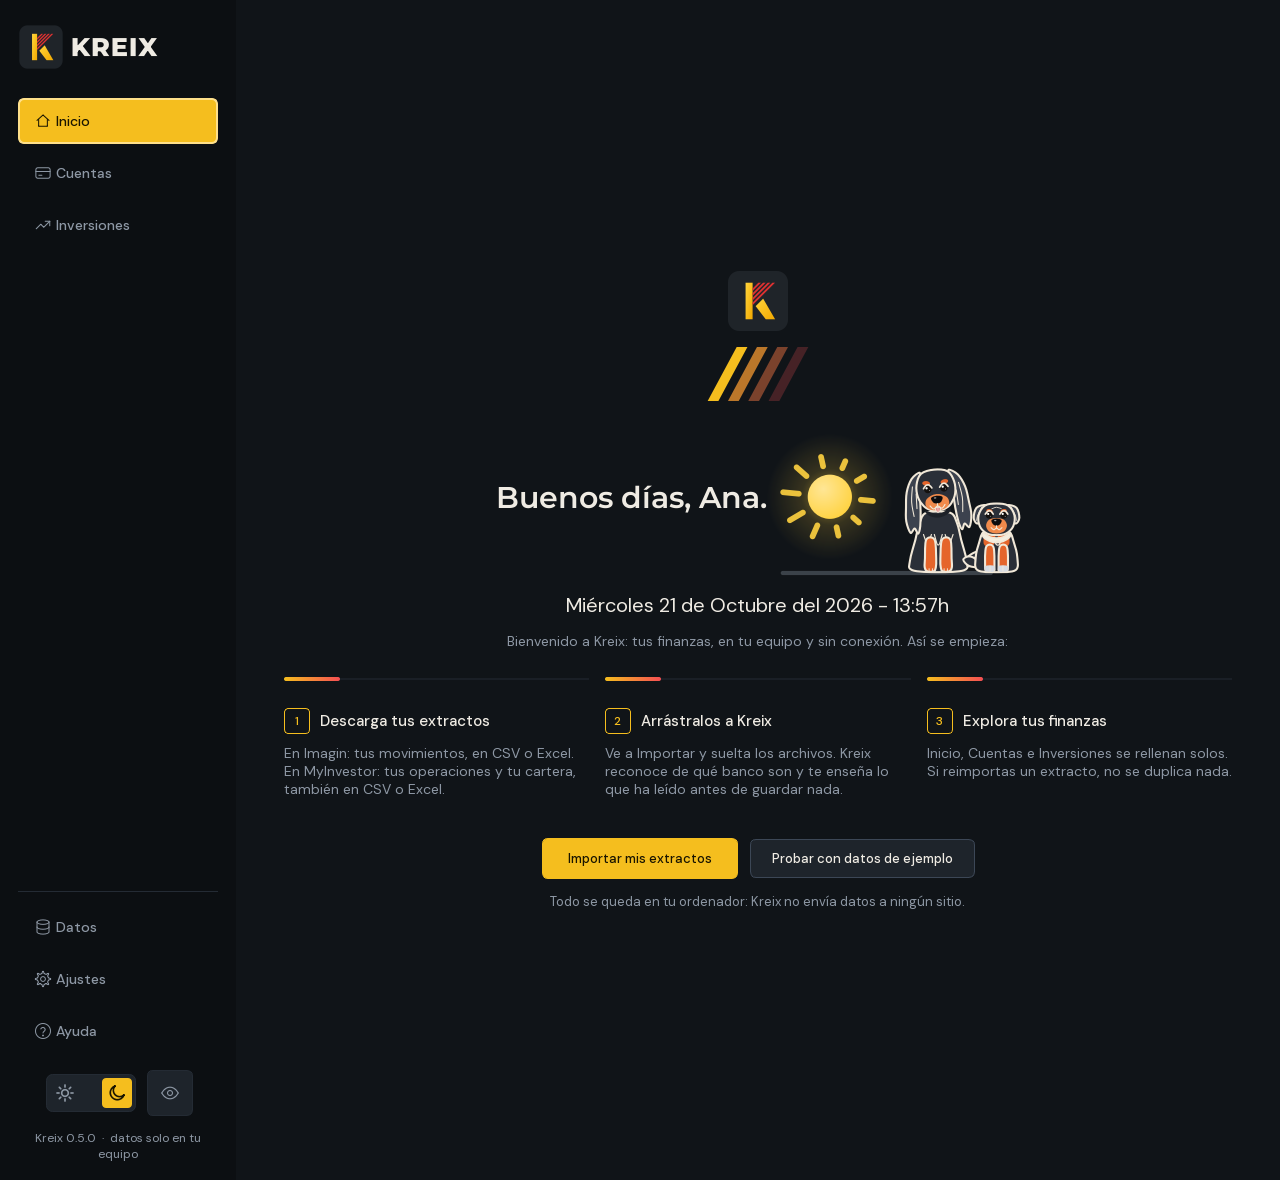
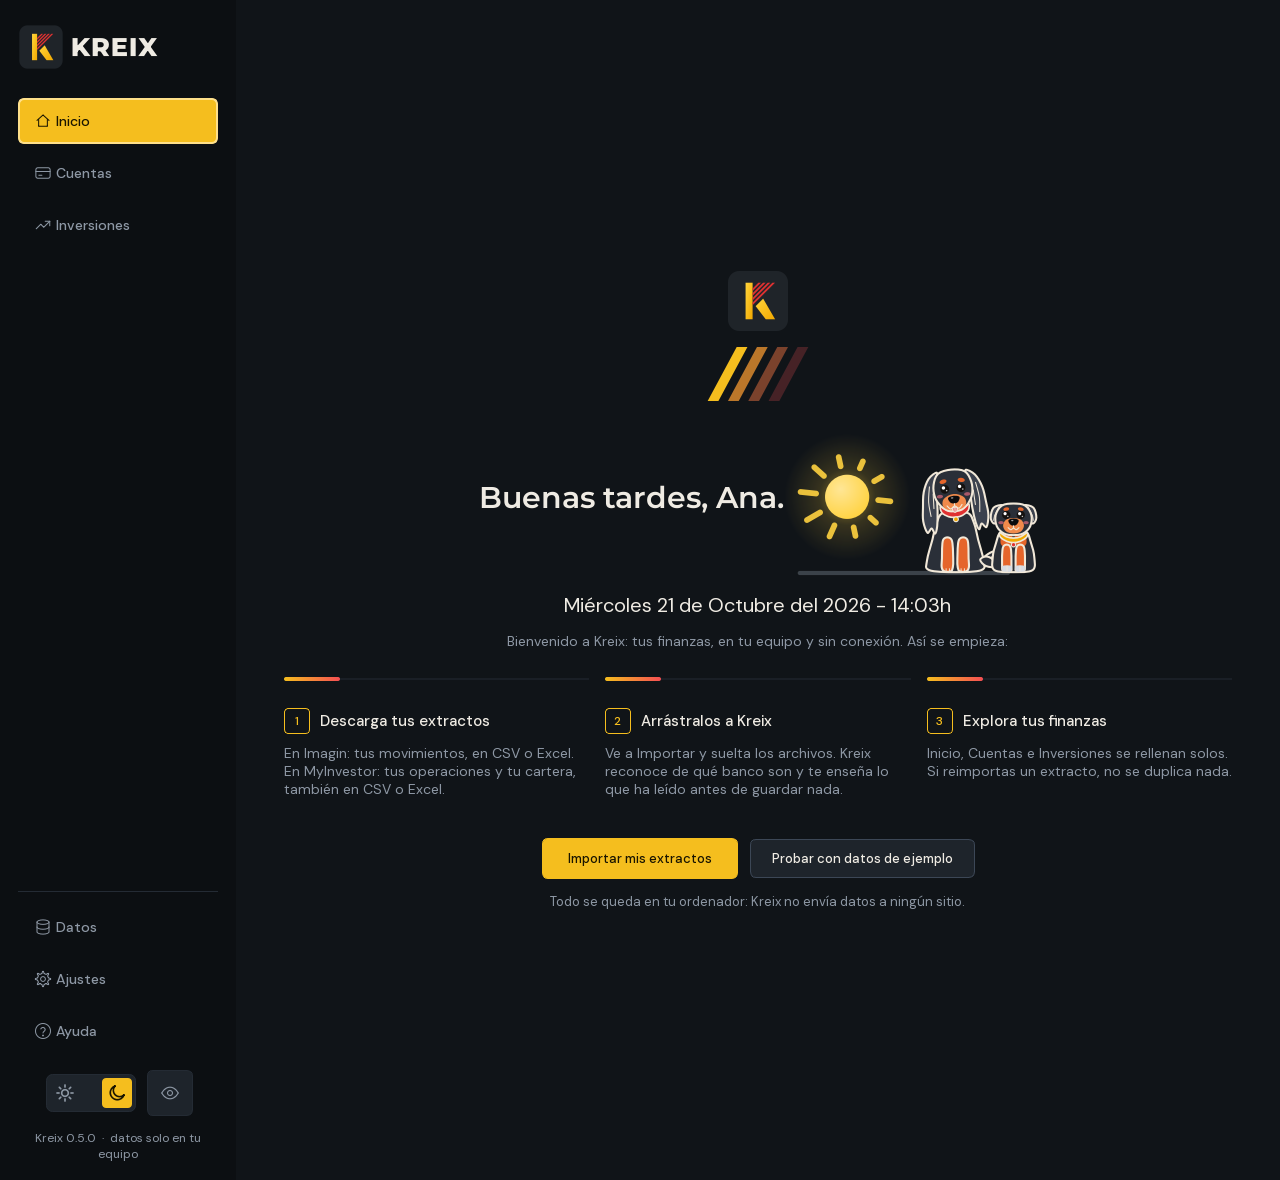
Perros más tiernos y con collares de la marca
- Blitzen pierde los tres mechones del pecho (las "VVV" entre las patas) y la sombra de la barbilla.
- Collares con los colores del logotipo de cada tema: Blitzen en rojo con chapita amarilla, Black en amarillo con chapita roja (también durmiendo).
- Caras más tiernas: ojos más grandes con brillos mayores y sin el párpado marcado, cejas que suben hacia dentro, rubor en las mejillas y sin la arruga de la frente de Black.

Changed region(s): [[0.375, 0.3661, 0.8125, 0.5186]]

diff --git a/ui/widgets/dogs.py b/ui/widgets/dogs.py
@@ -6,7 +6,7 @@ con la cara y las proporciones de cada perro:
 * Blitzen, cavalier king charles negro y fuego: cabeza redondeada, orejas largas y onduladas, ojos grandes, cejas de fuego,
   mejillas de fuego y la sonrisa con la puntita de la lengua.
 * Black, un perrito negro y fuego esbelto: orejas cortas plegadas hacia delante, ojos grandes con las cejas inclinadas, hocico
-  de fuego y el collar crema con su anilla.
+  de fuego y el collar amarillo del logotipo. Blitzen lleva el rojo.
 
 Cada cabeza se dibuja con una sola funcion (origen en el centro de la cabeza) y se usa igual de pie y durmiendo: las orejas son
 las mismas, solo se tumban hacia los lados cuando duermen. Como los perros son negros, el contorno toma el color del texto del tema
@@ -58,14 +58,19 @@ class Look:
     paw: QColor         # la punta clara de las patas de Black
     tongue: QColor
     grey: QColor        # la perilla gris de Black
+    collar_red: QColor      # collar de Blitzen: el rojo del logotipo
+    collar_yellow: QColor   # collar de Black: el amarillo del logotipo
+    blush: QColor           # rubor de las mejillas
 
 
 def look(dark: bool) -> Look:
     if dark:
         return Look(QColor("#F1E8D8"), QColor("#2A2F38"), QColor("#3C424E"), QColor("#1D2128"), QColor("#E5652B"), QColor("#F08A4B"),
-                    QColor("#F4EEDF"), QColor("#14110F"), QColor("#0B0B0D"), QColor("#D8DCE3"), QColor("#E98A8A"), QColor("#9AA0AB"))
+                    QColor("#F4EEDF"), QColor("#14110F"), QColor("#0B0B0D"), QColor("#D8DCE3"), QColor("#E98A8A"), QColor("#9AA0AB"),
+                    QColor("#E03131"), QColor("#F2A900"), QColor(255, 118, 138, 150))
     return Look(QColor("#17191D"), QColor("#2A2E36"), QColor("#474D59"), QColor("#1E2127"), QColor("#D4571F"), QColor("#E8793A"),
-                QColor("#F8F2E4"), QColor("#14110F"), QColor("#0B0B0D"), QColor("#E4E7EC"), QColor("#E98A8A"), QColor("#9097A3"))
+                QColor("#F8F2E4"), QColor("#14110F"), QColor("#0B0B0D"), QColor("#E4E7EC"), QColor("#E98A8A"), QColor("#9097A3"),
+                QColor("#C92A2A"), QColor("#F2B400"), QColor(240, 120, 130, 125))
 
 
 LINE_W = 1.0
@@ -112,16 +117,14 @@ class Pen:
         self.p.restore()
 
     def eye(self, x: float, y: float, r: float, closed: float = 0.0) -> None:
-        """Un ojo redondo con parpado superior y dos brillos. `closed` de 0 (abierto) a 1 (cerrado: un arco, como en la referencia)."""
+        """Un ojo redondo y brillante con dos destellos. `closed` de 0 (abierto) a 1 (cerrado: un arco, como en la referencia)."""
         if closed >= 0.85:
             self.line([(x - r * 1.05, y + 0.1), (x, y + r * 0.7), (x + r * 1.05, y + 0.1)], width=self.width * 0.85)
             return
         ry = r * (1 - closed * 0.85)
         self.ellipse(x, y, r, ry, self.lk.eye)
-        self.ellipse(x - r * 0.3, y - ry * 0.35, r * 0.3, r * 0.3, QColor("#FFFFFF"))
-        self.ellipse(x + r * 0.4, y + ry * 0.33, r * 0.13, r * 0.13, QColor(255, 255, 255, 170))
-        self.line([(x - r * 1.12, y - ry * 0.3), (x - r * 0.4, y - ry * 1.12), (x + r * 0.5, y - ry * 1.12), (x + r * 1.12, y - ry * 0.3)],
-                  width=self.width * 0.8)
+        self.ellipse(x - r * 0.28, y - ry * 0.32, r * 0.38, r * 0.38 * (ry / r), QColor("#FFFFFF"))
+        self.ellipse(x + r * 0.38, y + ry * 0.35, r * 0.17, r * 0.17 * (ry / r), QColor(255, 255, 255, 190))
 
 
 # ======================================================================================= cabezas (origen: el centro de la cabeza)
@@ -134,6 +137,10 @@ _BLITZEN_EAR_LINES = [[(11.2, -2.6), (12.4, 4.6), (12.0, 11.6)], [(9.8, 1.0), (1
 def blitzen_head(pen: Pen, lk: Look, blink: float = 0.0, smile: float = 1.0, ear_swing: float = 0.0, ear_lay: float = 0.0) -> None:
     """Cabeza redondeada con las orejas largas. `ear_lay` (grados) tumba las orejas hacia los lados, como al dormir."""
     p = pen.p
+    # collar rojo, debajo de la cabeza y de las orejas: asoma bajo la barbilla, con su chapita
+    pen.shape([(-6.8, 7.4), (-3.6, 9.8), (0, 10.4), (3.6, 9.8), (6.8, 7.4), (6.4, 10.4), (3.4, 12.6), (0, 13.2), (-3.4, 12.6), (-6.4, 10.4)],
+              lk.collar_red, width=0.8)
+    pen.ellipse(0, 14.2, 1.15, 1.15, lk.collar_yellow, outline=True, width=0.55)
     for sx in (-1, 1):
         p.save()
         p.translate(sx * 7.4, -7.0)                              # las orejas giran desde donde nacen
@@ -149,8 +156,9 @@ def blitzen_head(pen: Pen, lk: Look, blink: float = 0.0, smile: float = 1.0, ear
     pen.shape(sym([(0, 2.0), (2.8, 2.6), (5.2, 4.4), (5.6, 7.2), (3.6, 9.2), (0, 9.8)]), lk.fire_soft, outline=False)
     # cejas de fuego y ojos grandes
     for sx in (-1, 1):
-        pen.ellipse(sx * 4.4, -3.6, 1.85, 1.1, lk.fire, angle=sx * -10)
-        pen.eye(sx * 3.9, -0.6, 1.8, blink)
+        pen.ellipse(sx * 4.4, -4.4, 1.7, 1.0, lk.fire, angle=sx * 12)
+        pen.ellipse(sx * 6.6, 2.6, 1.5, 0.85, lk.blush)
+        pen.eye(sx * 3.9, -0.7, 2.15, blink)
     # nariz, philtrum y boca con la lengua
     pen.shape([(-2.7, 3.6), (0, 2.8), (2.7, 3.6), (2.0, 5.8), (0, 6.6), (-2.0, 5.8)], lk.nose, outline=False)
     pen.ellipse(-0.8, 3.8, 0.6, 0.34, QColor(255, 255, 255, 150))
@@ -173,16 +181,16 @@ def black_head(pen: Pen, lk: Look, blink: float = 0.0, ear_swing: float = 0.0) -
         pen.line([(sx * 7.2, -6.0), (sx * 9.0, -2.2), (sx * 9.6, 0.4)], width=0.4)
         p.restore()
     pen.shape(sym([(0, -7.6), (5.6, -6.6), (8.6, -2.0), (8.0, 3.4), (4.6, 6.8), (0, 7.6)]), lk.coat)
-    pen.line([(-2.2, -5.2), (0, -5.8), (2.2, -5.2)], width=0.4)                  # arruga de la frente
     # hocico de fuego
     pen.shape(sym([(0, -0.6), (3.6, 0.2), (5.0, 3.0), (3.6, 5.8), (0, 6.8)]), lk.fire_soft, outline=False)
     for sx in (-1, 1):
         p.save()
-        p.translate(sx * 3.4, -4.0)
-        p.rotate(sx * -12)
-        pen.ellipse(0, 0, 1.5, 0.95, lk.fire)
+        p.translate(sx * 3.5, -4.9)
+        p.rotate(sx * 12)
+        pen.ellipse(0, 0, 1.4, 0.85, lk.fire)
         p.restore()
-        pen.eye(sx * 3.5, -2.0, 1.7, blink)
+        pen.ellipse(sx * 6.0, 1.6, 1.3, 0.75, lk.blush)
+        pen.eye(sx * 3.5, -2.1, 2.0, blink)
     pen.shape([(-2.4, 0.4), (0, -0.4), (2.4, 0.4), (1.7, 2.4), (0, 3.1), (-1.7, 2.4)], lk.nose, outline=False)
     pen.ellipse(-0.6, 0.6, 0.55, 0.32, QColor(255, 255, 255, 150))
     pen.line([(0, 3.1), (0, 4.2)], width=0.5)
@@ -202,9 +210,6 @@ def blitzen_sitting(p: QPainter, lk: Look, t: float = 0.0, blink: float = 0.0, t
     p.restore()
     # cuerpo sentado: cuello, hombros, costillas y grupa
     pen.shape([(-5.6, -28), (-9.0, -23), (-11.0, -15), (-13.6, -5), (-12.6, -0.4), (0, 0.6), (12.6, -0.4), (13.6, -5), (11.0, -15), (9.0, -23), (5.6, -28)], lk.coat)
-    # el pelo largo del pecho: tres mechones
-    for dx, h in ((-5.2, 4.2), (0.0, 5.0), (5.2, 4.2)):
-        pen.line([(dx - 1.9, -17.5), (dx - 0.7, -17.5 + h * 0.85), (dx, -17.5 + h), (dx + 0.7, -17.5 + h * 0.85), (dx + 1.9, -17.5)], width=0.55)
     # patas delanteras de fuego
     for sx in (-1, 1):
         pen.shape([(sx * 1.8, -15), (sx * 5.8, -15), (sx * 6.4, -6), (sx * 6.5, -1.6), (sx * 5.2, 0.2), (sx * 2.2, 0.2), (sx * 1.2, -1.6), (sx * 1.0, -6)], lk.fire)
@@ -215,7 +220,6 @@ def blitzen_sitting(p: QPainter, lk: Look, t: float = 0.0, blink: float = 0.0, t
     p.translate(0, -28.0)
     p.rotate(tilt)
     p.translate(0, 28.0)
-    pen.shape([(-6.0, -29.5), (0, -27.4), (6.0, -29.5), (4.6, -27.0), (0, -25.6), (-4.6, -27.0)], lk.shade, outline=False)   # sombra bajo la barbilla
     p.translate(0, -39.0)
     blitzen_head(pen, lk, blink=blink, smile=1.0, ear_swing=math.sin(t * 1.3) * 1.8)
     p.restore()
@@ -248,10 +252,10 @@ def black_sitting(p: QPainter, lk: Look, t: float = 0.0, blink: float = 0.0, til
     p.translate(0, -24.8)
     black_head(pen, lk, blink=blink, ear_swing=math.sin(t * 1.1 + 0.7) * 2.2 + max(0.0, math.sin(t * 0.7 + 2.0)) ** 8 * 6.0)
     p.restore()
-    # collar claro con su anilla
+    # collar amarillo con su chapita
     pen.shape([(-6.6, -18.4), (-3.4, -16.4), (0, -15.8), (3.4, -16.4), (6.6, -18.4), (6.3, -16.2), (3.2, -14.2), (0, -13.6), (-3.2, -14.2), (-6.3, -16.2)],
-              lk.cream, width=0.8)
-    pen.ellipse(0.6, -13.4, 1.0, 1.0, QColor(0, 0, 0, 0), outline=True, width=0.6)
+              lk.collar_yellow, width=0.8)
+    pen.ellipse(0, -12.6, 1.05, 1.05, lk.collar_red, outline=True, width=0.55)
 
 
 # ======================================================================================= los dos durmiendo, juntos
@@ -287,7 +291,7 @@ def sleeping_pair(p: QPainter, lk: Look, t: float = 0.0) -> None:
     p.scale(0.8, 0.8)
     black_head(pen, lk, blink=1.0)
     p.restore()
-    pen.shape([(3.4, -2.6), (7.0, -1.8), (10.0, -1.5), (13.0, -1.8), (16.6, -2.6), (16.2, -0.6), (10.0, 0.0), (3.8, -0.6)], lk.cream, width=0.7)
+    pen.shape([(3.4, -2.6), (7.0, -1.8), (10.0, -1.5), (13.0, -1.8), (16.6, -2.6), (16.2, -0.6), (10.0, 0.0), (3.8, -0.6)], lk.collar_yellow, width=0.7)
     # unas z que suben
     for k, (size, delay) in enumerate(((2.4, 0.0), (3.4, 1.6))):
         phase = (t * 0.35 + delay / 3.2) % 1.0
